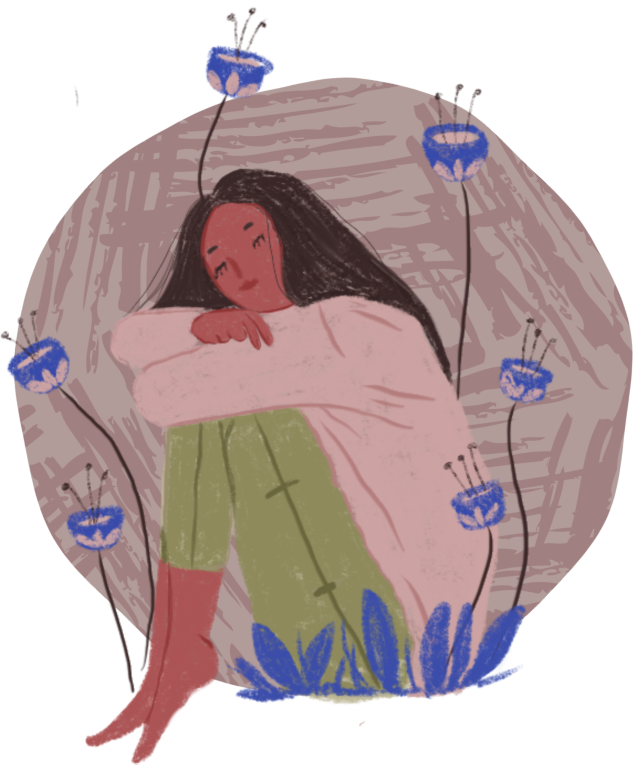
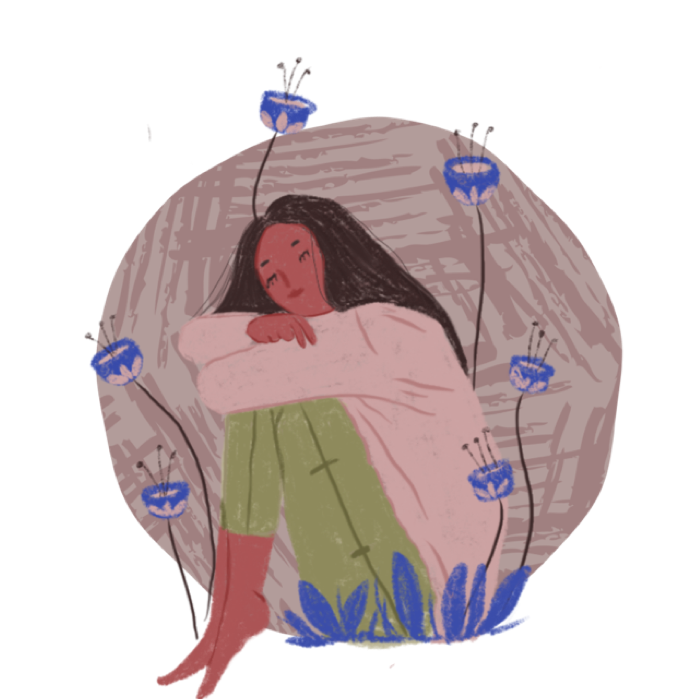
Image png modified. Category screen adjuested. card and my why screen modified accordingly.

diff --git a/src/screens/goalQuestionTabScreens/WhatGoalToAchieveScreen.js b/src/screens/goalQuestionTabScreens/WhatGoalToAchieveScreen.js
@@ -11,9 +11,6 @@ import {
 } from 'react-native';
 import layout from '../../theme/layout';
 import colors from '../../theme/colors';
-const readingGirl = require('../../assets/images/ReadingGirl.png');
-const readingGirlPlaceholder = 'Get my bachelors degree in three years';
-const readingGirlDescription = 'Career & Education';
 import CheckCircle from '../../assets/images/CheckCircle';
 import Svg, {Path} from 'react-native-svg';
 import CustomTextInput from '../../components/CustomTextInput';
@@ -43,7 +40,7 @@ const WhatGoalToAchieveScreen = (onPress, categoryId) => {
   const SAFEVIEW_OFFSET = 15;
   const HEADING_GAP = 50;
   const IMAGE_OFFSET = 20;
-  const IMAGE_HEIGHT = '56%';
+  const IMAGE_HEIGHT = layout.imageSizes.medium;
   const CUSTOM_INPUT_TEXT_GAP = 6;
   return (
     <KeyboardAvoidingView
@@ -76,12 +73,11 @@ const WhatGoalToAchieveScreen = (onPress, categoryId) => {
               What do you want to achieve?
             </Text>
           </View>
-          {/* image */}
           <View
             style={{flex: 1, justifyContent: 'center', alignItems: 'center'}}>
             <View
               style={{
-                height: IMAGE_HEIGHT,
+                height: layout.autoImageSizes.large,
                 aspectRatio: categoryData.aspectRatio,
               }}>
               <Image

diff --git a/src/theme/layout.js b/src/theme/layout.js
@@ -28,14 +28,14 @@ const layout = {
     avacadoLogo: 658 / 506,
     girlCouchImage: 519 / 441,
     tinyLine: 41 / 31,
-    yogaGirl: 804 / 612,
-    readingGirl: 696 / 631,
+    yogaGirl: 694 / 699,
+    readingGirl: 694 / 699,
     readingGirlWithoutCircle: 270 / 265,
     yogaGirlWithoutCircle: 260 / 204,
     moneyGirlWithoutCirlce: 244 / 212,
     thinkingGirlWithoutCircle: 188 / 228,
     moneyGirl: 694 / 699,
-    thinkingGirl: 635 / 765,
+    thinkingGirl: 694 / 699,
     progressBar: 945 / 15,
     svgHand: 13.724 / 15.855,
   },
@@ -68,8 +68,8 @@ const layout = {
   autoImageSizes: {
     xsmall: Dimensions.get('screen').width / 10.7,
     small: Dimensions.get('screen').width / 3.13,
-    medium: '75%',
-    large: '90%',
+    medium: Dimensions.get('screen').height / 6.3,
+    large: Dimensions.get('screen').height / 5,
     xxxxLarge: Dimensions.get('screen').width / 0.4443,
   },
   autoDisplacemets: {

diff --git a/src/assets/CategoryData.js b/src/assets/CategoryData.js
@@ -4,14 +4,14 @@ const CategoryData = [
     imagePath: require('./images/YogaGirl.png'),
     description: 'Physical & Health',
     placeholder: 'Lose 2kg in a month',
-    aspectRatio: 804 / 612,
+    aspectRatio: 694 / 699,
   },
   {
     id: 1,
     imagePath: require('./images/ReadingGirl.png'),
     description: 'Career & Education',
     placeholder: "Get my bacholer's dagree in three years",
-    aspectRatio: 696 / 631,
+    aspectRatio: 694 / 699,
   },
   {
     id: 2,
@@ -25,7 +25,7 @@ const CategoryData = [
     imagePath: require('./images/ThinkingGirl.png'),
     description: 'Self Growth',
     placeholder: 'Build a reading habit in 21 days',
-    aspectRatio: 635 / 765,
+    aspectRatio: 694 / 699,
   },
 ];
 

diff --git a/src/screens/GoalInfoScreen.js b/src/screens/GoalInfoScreen.js
@@ -56,7 +56,11 @@ const GoalInfoScreen = ({navigation, route}) => {
           alignSelf: 'center',
           justifyContent: 'center',
         }}>
-        <View style={{height: 130, aspectRatio: imageAspectRatio}}>
+        <View
+          style={{
+            height: layout.autoImageSizes.large,
+            aspectRatio: imageAspectRatio,
+          }}>
           <Image
             source={imageUrl}
             style={{width: null, height: null, flex: 1}}

diff --git a/src/screens/GoalCategoryScreen.js b/src/screens/GoalCategoryScreen.js
@@ -141,7 +141,7 @@ const GoalCategoryScreen = ({navigation}) => {
           }>
           <View
             style={{
-              height: layout.autoImageSizes.large,
+              height: layout.autoImageSizes.medium,
               aspectRatio: layout.imageAspectRatio.thinkingGirl,
             }}>
             <Image

diff --git a/src/components/Cards/ListCard.js b/src/components/Cards/ListCard.js
@@ -82,7 +82,7 @@ const ListCard = ({
           }}>
           <View
             style={{
-              width: '70%',
+              height: layout.autoImageSizes.large,
               aspectRatio: imageAspectRatio,
             }}>
             <Image

diff --git a/src/screens/MyGoalsHome.js b/src/screens/MyGoalsHome.js
@@ -6,7 +6,6 @@ import {
   FlatList,
   Modal,
   TouchableOpacity,
-  Image,
   Dimensions,
 } from 'react-native';
 import layout from '../theme/layout';
